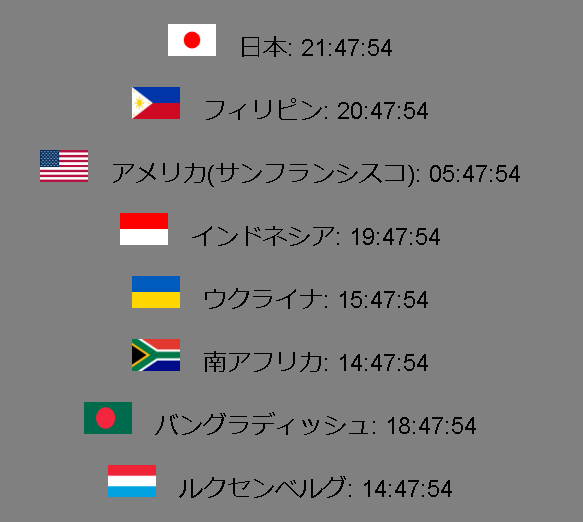
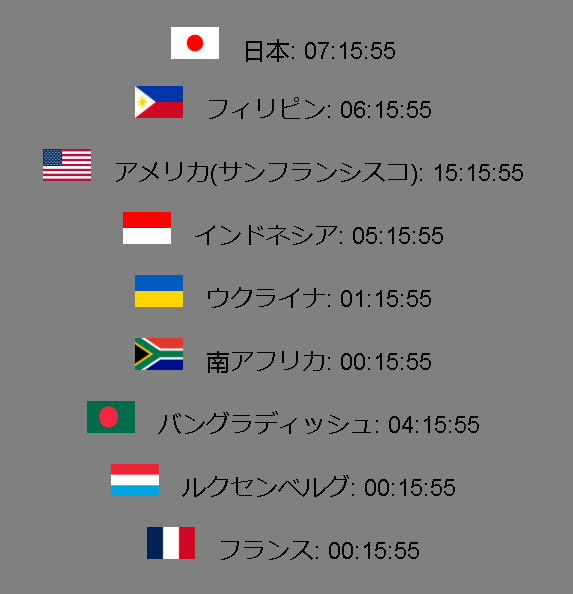
added france

diff --git a/index.html b/index.html
@@ -42,6 +42,7 @@ const timezoneOffsets = {
 "south_africa": 120,
 "bangladesh": 360,
 "luxembourg": 120,
+"france": 120,
 };
 
 function getTimeAtLocation(location) {
@@ -59,6 +60,7 @@ document.getElementById("ukraine-time").innerText = getTimeAtLocation("ukraine")
 document.getElementById("south_africa-time").innerText = getTimeAtLocation("south_africa");
 document.getElementById("bangladesh-time").innerText = getTimeAtLocation("bangladesh");
 document.getElementById("luxembourg-time").innerText = getTimeAtLocation("luxembourg");
+document.getElementById("france-time").innerText = getTimeAtLocation("france");
 }
 
 setInterval(updateClocks, 1000);
@@ -87,7 +89,10 @@ setInterval(updateClocks, 1000);
 <img src="bangladesh.png" alt="Bangladesh Flag"> バングラディッシュ: <span id="bangladesh-time">-</span>
 </div>
 <div class="clock">
-<img src="luxembourg.png" alt="Bangladesh Flag"> ルクセンベルグ: <span id="luxembourg-time">-</span>
+<img src="luxembourg.png" alt="Luxembourg Flag"> ルクセンベルグ: <span id="luxembourg-time">-</span>
+</div>
+<div class="clock">
+<img src="france.png" alt="France Flag"> フランス: <span id="france-time">-</span>
 </div>
 </body>
 </html>

diff --git a/README.md b/README.md
@@ -8,6 +8,8 @@
 * ウクライナ
 * 南アフリカ
 * バングラディッシュ
+* ルクセンベルグ
+* フランス
 
 # 実行例
 
